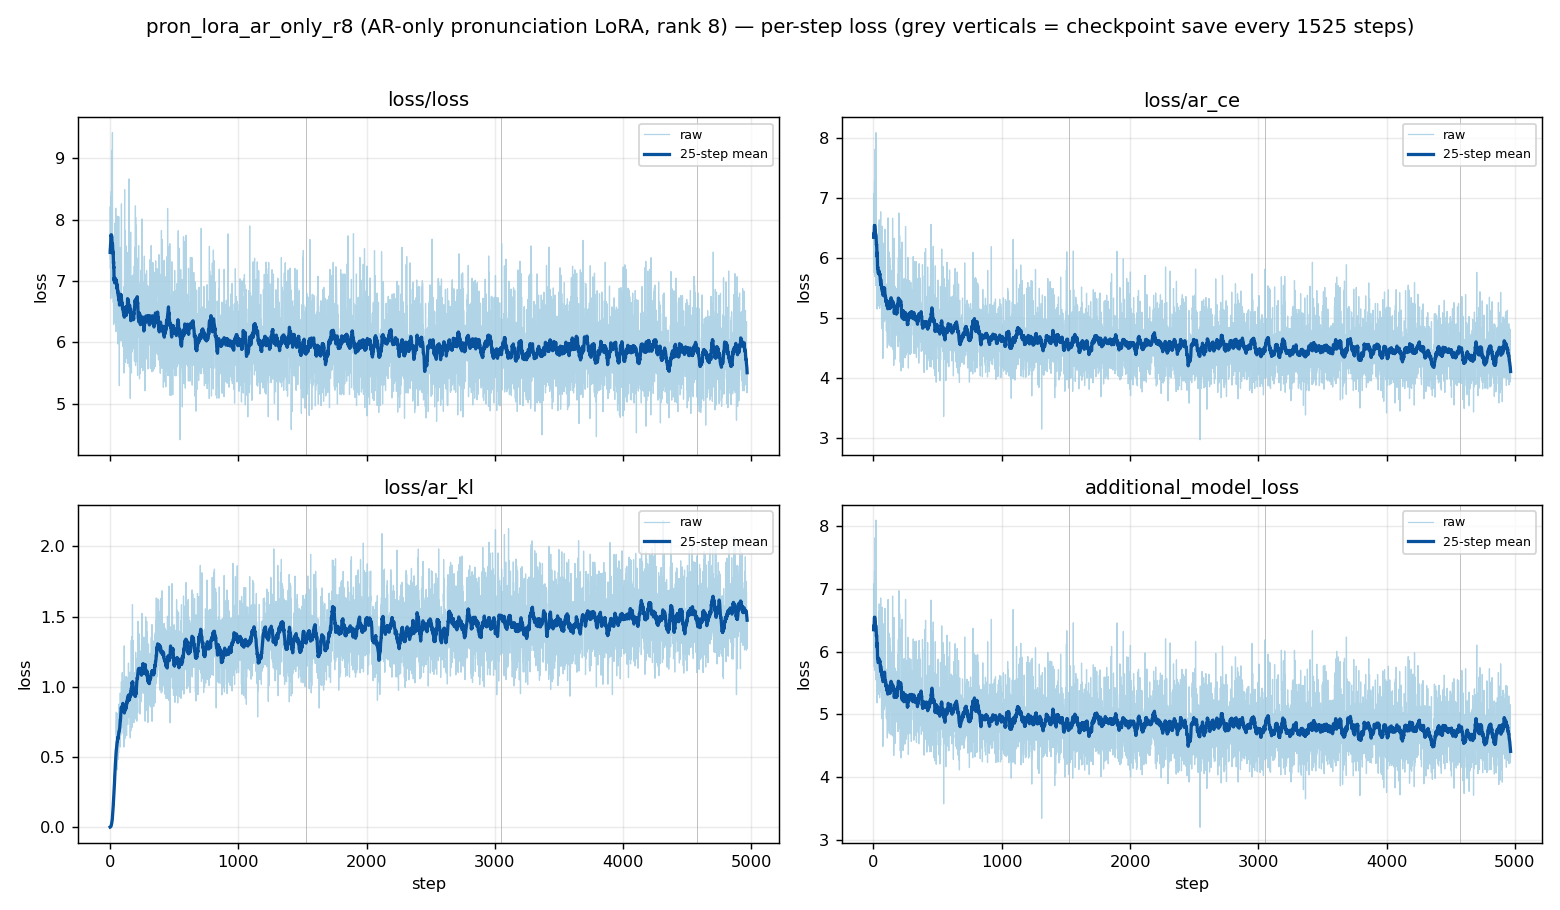
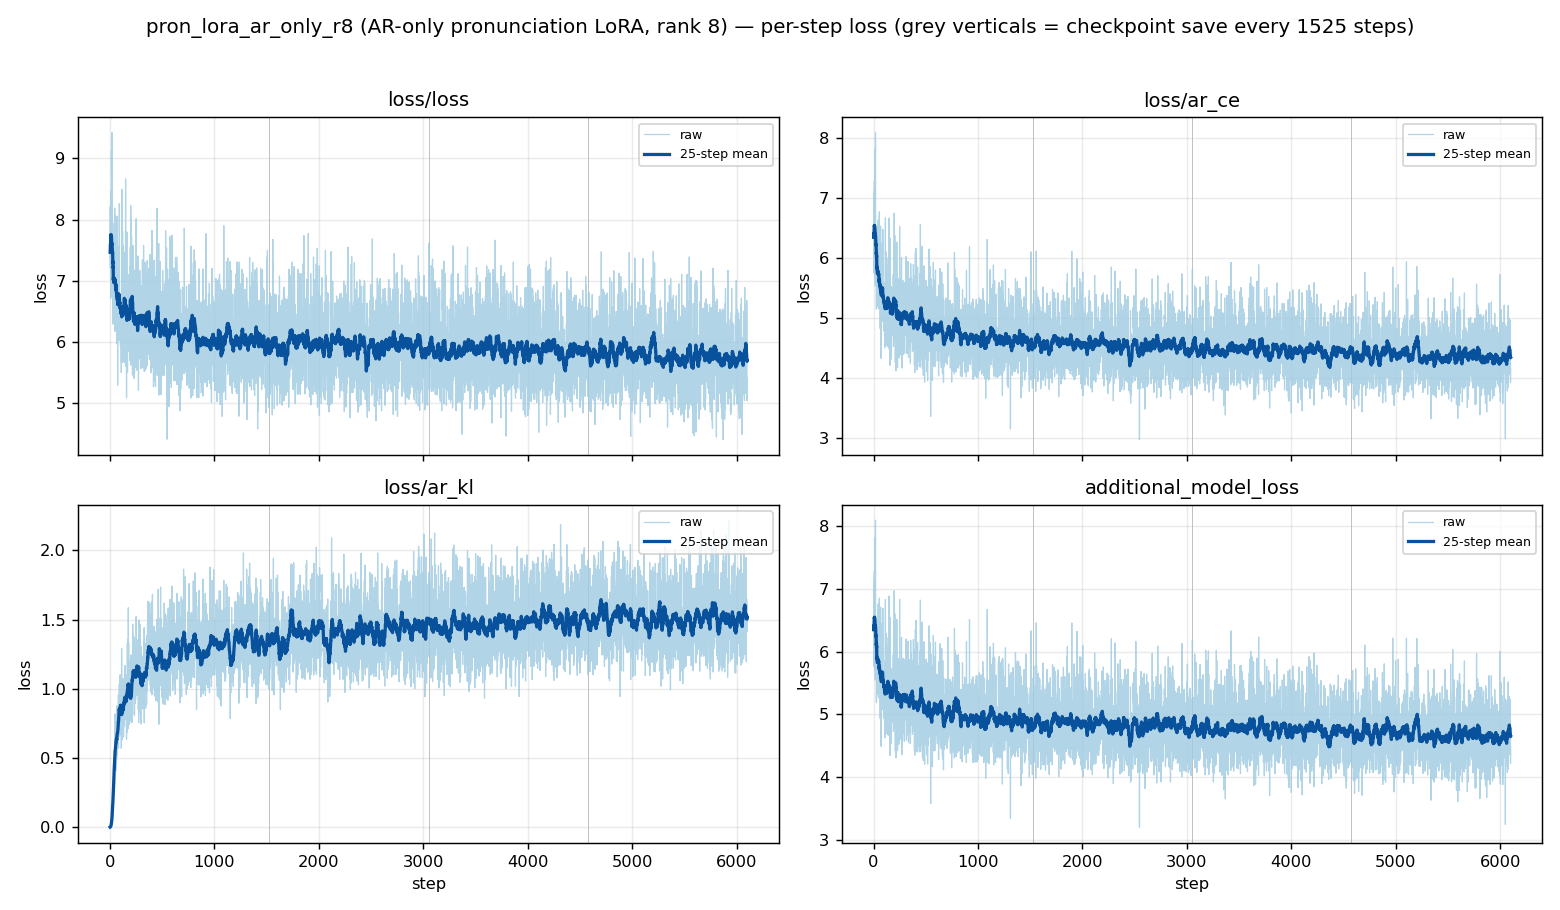
Task 14c: pron_lora_ar_only_r8 COMPLETE -- results note + final analysis
Run finished 6100/6100 (1 epoch) at ~07:27 UTC, clean exit, no traceback/OOM.
Final adapter metadata training_info={step:6100, epoch:1}.

Artifacts local + GCS (9 objects / 73.27 MiB under
.../pron_lora_ar_only_r8/output/): checkpoints 000001525/000003050/000004575 +
final no-step pron_lora_ar_only_r8.safetensors + optimizer.pt + loss_log.db +
config.yaml + tensorboard. NOTE: no _000006100 numbered file -- the post-loop
save IS the step-6100 artifact (loop runs steps 0-6099).

Final losses (step 6099): loss/loss 5.412, loss/ar_ce 4.163, loss/ar_kl 1.531.
Last-50: 5.815 / 4.397 / 1.533. ar_ce fell all run (6.13->4.40 first->last 50);
ar_kl rose monotonically (0.21->1.53, bounded, max 2.19), same shape as v1/v2.
Step time median 0.886 s; 1.52 h logged. GPU peak 10.5 GB, util p50 22%
(data/CPU-bound). Final charts + discussion in
TRAINING_ANALYSIS/pron_lora_ar_only_r8/. No merge/inference (next session).

diff --git a/TRAINING_ANALYSIS/pron_lora_ar_only_r8/ANALYSIS.md b/TRAINING_ANALYSIS/pron_lora_ar_only_r8/ANALYSIS.md
@@ -1,8 +1,11 @@
 # Training analysis — `pron_lora_ar_only_r8` (AR-only pronunciation LoRA)
 
-**IN PROGRESS** — snapshot generated **2026-09-24 ~07:20 UTC** at logged
-**step 4967 / 6100 (81.4%)**, ~1 epoch. `run.py` healthy (no traceback). Charts
-produced by the (now parametrized) `TRAINING_ANALYSIS/generate_plots.py`:
+**COMPLETE** — finished **2026-09-24 ~07:27 UTC** at **step 6100 / 6100**
+(= 1 epoch over 6,099 usable pairs). `run.py` exited cleanly: final adapter +
+optimizer written, **no traceback, no OOM**. Final adapter metadata:
+`training_info = {"step": 6100, "epoch": 1}`.
+
+Charts produced by the parametrized `TRAINING_ANALYSIS/generate_plots.py`:
 
 ```bash
 cd /content/maqamrock-yue2-lora-finetuning
@@ -14,10 +17,10 @@ python TRAINING_ANALYSIS/generate_plots.py \
   --event-label "checkpoint save"
 ```
 
-> **Re-run this after the run finishes** to replace this snapshot with the final
-> charts. This is **training loss only** — there is no in-training validation
-> (`docs/PRON_LORA_VERIFICATION.md` A3), so adapter quality must be judged
-> offline from the checkpoints, not from loss alone.
+> This is **training loss only** — there is no in-training validation
+> (`docs/PRON_LORA_VERIFICATION.md` A3) and no samples
+> (`train.disable_sampling: true`), so adapter quality must be judged offline
+> from the checkpoints, not from loss alone.
 
 ## Run at a glance
 
@@ -25,17 +28,16 @@ python TRAINING_ANALYSIS/generate_plots.py \
 |---|---|
 | Config | `config/pron_lora_ar_only.yml` (rank **8** LoRA, AR-only via `ignore_if_contains: ["transformer.nar"]`, EMA 0.999, `cot: off`, `train_window_frames: 0`, lr 1e-4) |
 | Model | YuE2 3B int8 `convrot8`, flowmatch, batch 1, grad-accum 1 |
-| Dataset | `/content/pron_dataset/train` — 6,100 pairs, **6,099 usable** (one mp3 failed to decode at cache time); 6,100 steps ≈ 1.0002 epoch |
+| Dataset | `/content/pron_dataset/train` — 6,100 pairs, **6,099 usable** (one mp3 failed to decode at cache time); 6,100 steps = 1 epoch |
 | GPU | Colab **A100-SXM4-80GB** |
 | Caching | 6,100 clips in **12:26** before step 1 (expected, not a stall) |
-| Steps at snapshot | **4967 / 6100 (81.4%)** |
-| Step time | **median 0.886 s** (p10 0.872 / p90 0.917) → ~**1.11 steps/s** |
-| ETA | ~**17 min** at the recent rate |
-| Samples | **none** (`train.disable_sampling: true`) — grey verticals are checkpoint saves, not sample pauses |
-| Checkpoints so far | `…_000001525` (06:19), `…_000003050` (06:41), `…_000004575` (07:04); next 6100, then final no-step |
+| Steps done | **6100 / 6100 (100%)**, steps 1–6099 logged (final save carries step 6100) |
+| Step time | **median 0.886 s** (p10 0.872 / p90 0.917) → ~**1.11 steps/s**; **1.52 h** logged training |
+| Samples | **none** (`disable_sampling: true`) — grey verticals are checkpoint saves |
+| Checkpoints | `…_000001525`, `…_000003050`, `…_000004575` (numbered) + final no-step `pron_lora_ar_only_r8.safetensors` (step 6100); `optimizer.pt` |
 | GPU | peak **10,794 MiB (10.5 GB)** of 80 GB; util p50 **22 %**; power mean 79 W; temp ≤ 35 °C |
+| Backup | local + GCS (`…/pron_lora_ar_only_r8/output/`, 9 objects / 73.27 MiB) |
 | Health | no tracebacks; loss descending; VRAM flat |
-| Backup | local + GCS (`…/pron_lora_ar_only_r8/output/`) after the 2026-09-24 settle fix (`DECISIONS.md`) |
 
 ## Charts
 
@@ -45,79 +47,80 @@ python TRAINING_ANALYSIS/generate_plots.py \
 - [`04_throughput.png`](04_throughput.png) — seconds/step and progress vs wall-clock
 - [`05_gpu_usage.png`](05_gpu_usage.png) — A100 util / memory / temp / power
 
-## Loss trend (per-500-step means)
+## Loss trend (per-610-step means, deciles)
 
 | steps | `loss/loss` | `loss/ar_ce` | `loss/ar_kl` | `additional_model_loss` |
 |---|---|---|---|---|
-| 1–500 | 6.519 | 5.199 | 0.975 | 5.394 |
-| 501–1000 | 6.108 | 4.748 | 1.277 | 5.004 |
-| 1001–1500 | 6.023 | 4.643 | 1.335 | 4.910 |
-| 1501–2000 | 5.971 | 4.589 | 1.387 | 4.866 |
-| 2001–2500 | 5.951 | 4.547 | 1.399 | 4.827 |
-| 2501–3000 | 5.939 | 4.538 | 1.435 | 4.825 |
-| 3001–3500 | 5.868 | 4.475 | 1.454 | 4.766 |
-| 3501–4000 | 5.885 | 4.478 | 1.463 | 4.771 |
-| 4001–4500 | 5.849 | 4.435 | 1.497 | 4.734 |
-| 4501–5000 | 5.830 | 4.402 | 1.522 | 4.707 |
+| 1–610 | 6.457 | 5.130 | 1.019 | 5.333 |
+| 611–1220 | 6.069 | 4.708 | 1.301 | 4.968 |
+| 1221–1830 | 5.985 | 4.604 | 1.363 | 4.877 |
+| 1831–2440 | 5.980 | 4.574 | 1.399 | 4.853 |
+| 2441–3050 | 5.914 | 4.517 | 1.435 | 4.804 |
+| 3051–3660 | 5.882 | 4.484 | 1.451 | 4.774 |
+| 3661–4270 | 5.875 | 4.463 | 1.491 | 4.762 |
+| 4271–4880 | 5.813 | 4.396 | 1.503 | 4.697 |
+| 4881–5490 | 5.792 | 4.391 | 1.501 | 4.692 |
+| 5491–6099 | **5.756** | **4.362** | 1.505 | **4.663** |
 
-First-50 vs last-50: `loss/loss` 7.36 → **5.89** (−1.47), `loss/ar_ce` 6.13 →
-**4.45** (−1.68), `loss/ar_kl` 0.21 → **1.55** (+1.35),
-`additional_model_loss` 6.17 → **4.76** (−1.41).
+First-50 vs last-50: `loss/loss` 7.36 → **5.815** (−1.55), `loss/ar_ce` 6.13 →
+**4.397** (−1.73), `loss/ar_kl` 0.21 → **1.533** (+1.33),
+`additional_model_loss` 6.17 → **4.703** (−1.47). Minimum `loss/loss` **4.402
+at step 5870** (end-of-run, not an early dip).
 
-Metric keys present: `additional_model_loss`, `learning_rate`, `loss/ar_ce`,
+Metric keys: `additional_model_loss`, `learning_rate`, `loss/ar_ce`,
 `loss/ar_kl`, `loss/loss` — same five as v1/v2, **no `nar_flow`** key.
 
 ## Observations / flags
 
-1. **Clean and still descending.** `loss/loss` falls steeply over the first
-   ~200 steps (7.4 → ~6.2) then declines slowly to ~5.9. The 50-step trend is
-   **−7.7e−5/step** at the snapshot. No tracebacks, no OOM, VRAM flat at ~10.5 GB.
-2. **`loss/ar_ce` — the term that actually trains this adapter — is still
-   falling**: 5.20 (1–500) → **4.40** (4501–5000). This is the AR next-token
-   loss on the recitation text; it is the only thing the adapter is optimising
-   (NAR is excluded and its flow loss is detached). The curve is flattening but
-   not flat, so the remaining ~1,100 steps still carry (small) signal.
-3. **`loss/ar_kl` rises monotonically the whole way, exactly as in v1 and v2**:
-   0.21 → 1.55 last-50, windowed 0.98 → 1.52, max **2.186** at step 4313. It is
-   the trust-region KL(base ‖ lora) on AR distributions and it is **bounded** —
-   no blow-up — but the unbroken upward drift is the same pattern the whole-song
+1. **Completed cleanly.** `loss/loss` fell steeply over the first ~200 steps
+   (7.4 → ~6.2) then declined steadily to **5.76** (last decile). No tracebacks,
+   no loss spikes beyond batch-1 noise, VRAM flat, and the global minimum is at
+   the very end (step 5870) — no late overfitting regression in the loss.
+2. **`loss/ar_ce` — the term that actually trains this adapter — kept falling to
+   the end**: 5.13 (1–610) → **4.36** (5491–6099), last-50 4.40. This is the AR
+   next-token loss on the recitation text and is the only thing the adapter
+   optimises (NAR is excluded; its flow loss is detached). It was still
+   improving at step 6100, so 1 epoch is not obviously over-long by this metric.
+3. **`loss/ar_kl` rose monotonically the whole way, exactly as in v1 and v2**:
+   0.21 → **1.53** last-50, deciles 1.02 → 1.51, max **2.19** (step 4313). It is
+   the trust-region KL(base ‖ lora) on AR distributions, **bounded** (no
+   blow-up), but the unbroken upward drift is the same pattern the whole-song
    runs showed. If the pron adapter turns out to over-drift the AR (audible on
    the offline eval), `ar_kl_weight` / fewer steps / lower LR is the first
    single-variable lever.
 4. **`loss/loss` here is AR-dominated** (`additional_model_loss` ≈ `ar_ce`), as
    expected for an AR-only adapter — the NAR/flow path contributes ~no gradient
    (A4 in `PRON_LORA_VERIFICATION.md`). Do not read `loss/loss` as audio quality.
-5. **Diminishing returns.** Per-500 improvements collapsed after the first
-   window: −0.41, −0.09, −0.05, −0.02, −0.01, −0.07, +0.02, −0.04, −0.02. The
-   last ~2,500 steps moved `loss/loss` by well under 0.15 while `ar_kl` kept
-   drifting up. Late steps mostly refine `ar_ce` (still slowly improving) and let
-   the KL anchor grow.
-6. **The A100 is not the bottleneck.** Median util **22 %**, power mean 79 W,
+5. **Diminishing returns, but not flat.** Per-610-step `loss/loss` deltas:
+   −0.39, −0.08, −0.01, −0.07, −0.03, −0.01, −0.06, −0.02, −0.04. The tail is
+   small but still negative, and `ar_ce` (the objective that matters) also kept
+   inching down. Unlike v2 (which plateaued hard by 3000), this run had a little
+   headroom left — worth noting if a longer run is ever considered.
+6. **The A100 was not the bottleneck.** Median util **22 %**, power mean 79 W,
    VRAM only 10.5 GB of 80 GB, yet step time is **0.886 s** — barely faster than
    the L4 smoke's ~1.0 s/step (which was warmup-inflated). This run is
    data/CPU-bound (short-clip VAE/audio path), not compute-bound; an A100 is
-   over-provisioned for it. Full epoch ≈ `6100 × 0.886 s ≈ 1.5 h` of training.
+   over-provisioned for it. Full epoch ≈ 1.5 h.
 7. **Early transients, not trends.** Max loss at step 19 (9.42) is warmup; the
    apparent minima at steps 547 (`loss/loss` 4.41) and 2546 (`ar_ce` 2.97) are
-   single-batch dips, not a regime change.
+   single-batch dips. The only `loss/loss` minimum now (4.40 @ 5870) is genuine.
 
 ## Caveats
 
-- **Mid-run snapshot (81.4%).** Numbers will move slightly; regenerate after
-  step 6100.
-- **No validation split** and **no samples** (`disable_sampling: true`), so this
-  says nothing about whether the articulation actually improves. That requires
-  the offline AR-loss replay over the 180 `val` pairs described in
-  `PRON_LORA_VERIFICATION.md` A3, run per checkpoint.
+- **No validation split** and **no samples**, so this says nothing about whether
+  articulation actually improves. That requires the offline AR-loss replay over
+  the 180 `val` pairs described in `PRON_LORA_VERIFICATION.md` A3, run per
+  checkpoint.
 - **Not comparable to v1/v2 loss levels**: different dataset (short recitation
   clips vs whole songs), rank (8 vs 32), and objective (AR-only vs full). Only
   the *shape* of `ar_kl` is directly comparable, and it matches both.
+- **No `_000006100` numbered checkpoint** — the numbered saves are at 1525/3050/
+  4575 (loop runs steps 0–6099); the post-loop save `pron_lora_ar_only_r8.safetensors`
+  *is* the step-6100 artifact (metadata-verified), not a separate extra file.
 
 ## Next steps
 
-- Regenerate the charts once training completes (same command; drop the
-  "IN PROGRESS" note).
-- Offline-eval checkpoints `000001525 / 000003050 / 000004575 / 000006100` +
-  final over the 180 `val` pairs (`loss/ar_ce`, `loss/ar_kl`); prefer an earlier
+- Offline-eval all four artifacts (`…_000001525 / _000003050 / _000004575` +
+  final) over the 180 `val` pairs (`loss/ar_ce`, `loss/ar_kl`); prefer an earlier
   checkpoint if late steps over-drift.
 - Merge with the frozen v2 style LoRA only after that audit (next session).

diff --git a/docs/PRON_LORA_VERIFICATION.md b/docs/PRON_LORA_VERIFICATION.md
@@ -264,3 +264,39 @@ steps (1 epoch over 6,100 train pairs), `save.save_every: 1525`.
 the L4 smoke number does not transfer to the short pron clips, and the old
 ~3.10 s/step A100 figure is for whole songs. Measure via `monitor_loss.py`
 after ~50 steps.
+
+## Real run results (A100) — COMPLETE, 2026-09-24
+
+`pron_lora_ar_only_r8` finished **6100/6100 (1 epoch)** at ~07:27 UTC. Clean
+exit: final adapter + optimizer written, **no traceback, no OOM**. Final
+adapter metadata `training_info = {"step": 6100, "epoch": 1}`.
+
+Artifacts (local `/content/ai-toolkit/output/pron_lora_ar_only_r8/` **and** GCS
+`gs://akbar-december-2024-backup/OSTRIS_Arabic_Suno_Finetuning/pron_lora_ar_only_r8/output/`,
+9 objects / 73.27 MiB total, verified with `gcloud storage ls -l`):
+
+| file | bytes |
+|---|---|
+| `pron_lora_ar_only_r8_000001525.safetensors` | 14,709,664 |
+| `pron_lora_ar_only_r8_000003050.safetensors` | 14,709,664 |
+| `pron_lora_ar_only_r8_000004575.safetensors` | 14,709,664 |
+| `pron_lora_ar_only_r8.safetensors` (final, step 6100) | 14,709,664 |
+| `optimizer.pt` | 15,174,731 |
+| `loss_log.db` (+`-shm`/`-wal`) | 2,785,280 |
+| `config.yaml`, `tensorboard/` | present |
+
+**Note:** there is **no `_000006100` numbered file** — numbered saves occur at
+1525/3050/4575 (the loop runs steps 0–6099); the post-loop no-step save *is* the
+step-6100 artifact (metadata-verified). Four trainable artifacts total, not five.
+
+Losses at the end (step 6099): `loss/loss` **5.412**, `loss/ar_ce` **4.163**,
+`loss/ar_kl` **1.531**. Last-50 means: `loss/loss` 5.815, `loss/ar_ce` 4.397,
+`loss/ar_kl` 1.533. First-50 → last-50: `ar_ce` 6.13 → 4.40 (−1.73). `ar_kl`
+rose monotonically all run (0.21 → 1.53, bounded, max 2.19) — same shape as the
+v1/v2 whole-song runs. Median step time **0.886 s**; 1.52 h logged. GPU peak
+10.5 GB / 80 GB, util p50 22 % (data/CPU-bound, not compute-bound). Full charts
+and discussion: `TRAINING_ANALYSIS/pron_lora_ar_only_r8/ANALYSIS.md`.
+
+No in-training validation and no samples (`disable_sampling: true`), so this is
+a loss report only; articulation quality needs the offline `val`-replay audit
+(A3) before any merge.
